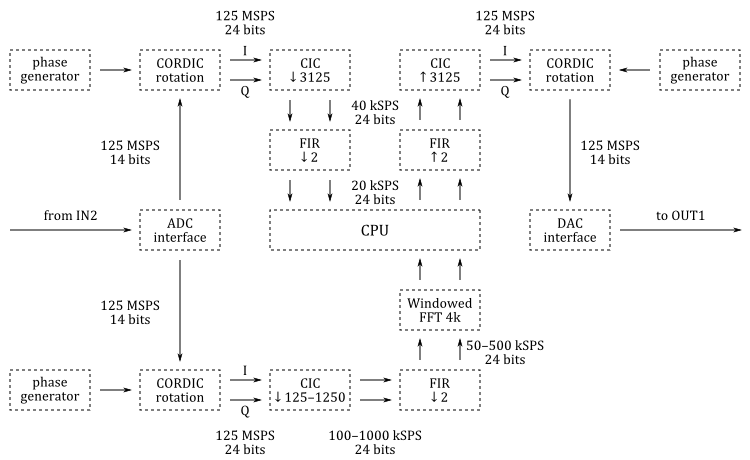
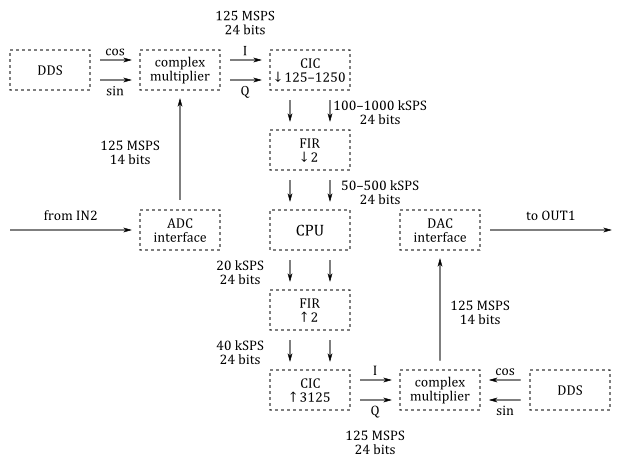
add sdr-transceiver-fft and update sdr-transceiver

diff --git a/sdr-transceiver.md b/sdr-transceiver.md
@@ -35,47 +35,12 @@ The basic blocks of the digital down-converter (DDC) and of the digital up-conve
 
 ![SDR transceiver]({{ "/img/sdr-transceiver.png" | prepend: site.baseurl }})
 
-The [projects/sdr_transceiver](https://github.com/pavel-demin/red-pitaya-notes/tree/develop/projects/sdr_transceiver) directory contains four Tcl files: [block_design.tcl](https://github.com/pavel-demin/red-pitaya-notes/blob/develop/projects/sdr_transceiver/block_design.tcl), [rx_0.tcl](https://github.com/pavel-demin/red-pitaya-notes/blob/develop/projects/sdr_transceiver/rx_0.tcl), [sp_0.tcl](https://github.com/pavel-demin/red-pitaya-notes/blob/develop/projects/sdr_transceiver/sp_0.tcl), [tx_0.tcl](https://github.com/pavel-demin/red-pitaya-notes/blob/develop/projects/sdr_transceiver/tx_0.tcl). The code in these files instantiates, configures and interconnects all the needed IP cores.
+The [projects/sdr_transceiver](https://github.com/pavel-demin/red-pitaya-notes/tree/develop/projects/sdr_transceiver) directory contains three Tcl files: [block_design.tcl](https://github.com/pavel-demin/red-pitaya-notes/blob/develop/projects/sdr_transceiver/block_design.tcl), [rx_0.tcl](https://github.com/pavel-demin/red-pitaya-notes/blob/develop/projects/sdr_transceiver/rx_0.tcl), [tx_0.tcl](https://github.com/pavel-demin/red-pitaya-notes/blob/develop/projects/sdr_transceiver/tx_0.tcl). The code in these files instantiates, configures and interconnects all the needed IP cores.
 
 Software
 -----
 
-A software called [MiniTRX](https://github.com/pavel-demin/MiniTRX) is currently being developed. This software consists of two components:
-
- - server that runs on the Red Pitaya board and processes all the I/Q data
- - client that runs on a computer, receives the audio and spectrum data from the server and sends the audio data to the server for transmission
-
-The server relies on the following libraries:
-
- - [FFTW-ARM](http://www.vesperix.com/arm/fftw-arm/)
- - [WDSP](http://openhpsdr.org/videos.php)
- - [libsamplerate](http://www.mega-nerd.com/SRC/)
- - [Qt](http://www.qt.io/)
-
-The client is mainly based on the [Qt](http://www.qt.io/) library.
-
-The [WebSocket](http://doc.qt.io/qt-5/qtwebsockets-index.html) protocol is used for the communication between the server and the client.
-
-The client GUI is written in the [QML](http://doc.qt.io/qt-5/qtqml-index.html) language.
-
-<!---
-Getting started
------
-
- - Requirements:
-   - Computer running MS Windows.
-   - Wired or wireless Ethernet connection between the computer and the Red Pitaya board.
- - Connect an RX antenna to the IN2 connector on the Red Pitaya board.
- - Connect an TX antenna to the OUT1 connector on the Red Pitaya board.
- - Download [FPGA configuration file](https://googledrive.com/host/0B-t5klOOymMNfmJ0bFQzTVNXQ3RtWm5SQ2NGTE1hRUlTd3V2emdSNzN6d0pYamNILW83Wmc/SDR/sdr_transceiver.bin), [sdr-receiver](https://googledrive.com/host/0B-t5klOOymMNfmJ0bFQzTVNXQ3RtWm5SQ2NGTE1hRUlTd3V2emdSNzN6d0pYamNILW83Wmc/SDR/sdr-receiver) and [sdr-transmitter](https://googledrive.com/host/0B-t5klOOymMNfmJ0bFQzTVNXQ3RtWm5SQ2NGTE1hRUlTd3V2emdSNzN6d0pYamNILW83Wmc/SDR/sdr-transmitter).
- - Copy the downloaded files (`sdr_transceiver.bin`, `sdr-receiver` and `sdr-transmitter`) to the original Red Pitaya SD card.
- - Edit `etc/init.d/rcS` on the SD card to add the commands that configure FPGA and start the programs:
-{% highlight bash %}
-cat /opt/sdr_transceiver.bin > /dev/xdevcfg
-/opt/MiniTRX-server &
-{% endhighlight %}
- - Insert the SD card in Red Pitaya and connect the power.
--->
+An interface with GNU Radio is currently being developed.
 
 Building from source
 -----

diff --git a/sdr-transceiver-fft.md b/sdr-transceiver-fft.md
@@ -1,0 +1,57 @@
+---
+layout: page
+title: SDR transceiver with FFT
+permalink: /sdr-transceiver-fft/
+---
+
+This is a work in progress...
+
+![SDR transceiver with FFT]({{ "/img/sdr-transceiver-fft.png" | prepend: site.baseurl }})
+
+The [projects/sdr_transceiver_fft](https://github.com/pavel-demin/red-pitaya-notes/tree/develop/projects/sdr_transceiver_fft) directory contains four Tcl files: [block_design.tcl](https://github.com/pavel-demin/red-pitaya-notes/blob/develop/projects/sdr_transceiver_fft/block_design.tcl), [rx_0.tcl](https://github.com/pavel-demin/red-pitaya-notes/blob/develop/projects/sdr_transceiver_fft/rx_0.tcl), [sp_0.tcl](https://github.com/pavel-demin/red-pitaya-notes/blob/develop/projects/sdr_transceiver_fft/sp_0.tcl), [tx_0.tcl](https://github.com/pavel-demin/red-pitaya-notes/blob/develop/projects/sdr_transceiver_fft/tx_0.tcl). The code in these files instantiates, configures and interconnects all the needed IP cores.
+
+Software
+-----
+
+A software called [MiniTRX](https://github.com/pavel-demin/MiniTRX) is currently being developed. This software consists of two components:
+
+ - server that runs on the Red Pitaya board and processes all the I/Q data
+ - client that runs on a computer, receives the audio and spectrum data from the server and sends the audio data to the server for transmission
+
+The server relies on the following libraries:
+
+ - [FFTW-ARM](http://www.vesperix.com/arm/fftw-arm/)
+ - [WDSP](http://openhpsdr.org/videos.php)
+ - [libsamplerate](http://www.mega-nerd.com/SRC/)
+ - [Qt](http://www.qt.io/)
+
+The client is mainly based on the [Qt](http://www.qt.io/) library.
+
+The [WebSocket](http://doc.qt.io/qt-5/qtwebsockets-index.html) protocol is used for the communication between the server and the client.
+
+The client GUI is written in the [QML](http://doc.qt.io/qt-5/qtqml-index.html) language.
+
+Building from source
+-----
+
+The installation of the development machine is described at [this link]({{ "/development-machine/" | prepend: site.baseurl }}).
+
+The structure of the source code and of the development chain is described at [this link]({{ "/led-blinker/" | prepend: site.baseurl }}).
+
+Setting up the Vivado environment:
+{% highlight bash %}
+source /opt/Xilinx/Vivado/2015.2/settings64.sh
+source /opt/Xilinx/SDK/2015.2/settings64.sh
+{% endhighlight %}
+
+Cloning the source code repository:
+{% highlight bash %}
+git clone https://github.com/pavel-demin/red-pitaya-notes
+cd red-pitaya-notes
+{% endhighlight %}
+
+Building `sdr_transceiver_fft.bin`:
+{% highlight bash %}
+make NAME=sdr_transceiver_fft tmp/sdr_transceiver_fft.bit
+python scripts/fpga-bit-to-bin.py --flip tmp/sdr_transceiver_fft.bit sdr_transceiver_fft.bin
+{% endhighlight %}

diff --git a/index.md b/index.md
@@ -10,4 +10,5 @@ layout: default
 1. [LED blinker]({{ "/led-blinker/" | prepend: site.baseurl }})
 1. [SDR receiver]({{ "/sdr-receiver/" | prepend: site.baseurl }})
 1. [SDR transceiver]({{ "/sdr-transceiver/" | prepend: site.baseurl }})
+1. [SDR transceiver with FFT]({{ "/sdr-transceiver-fft/" | prepend: site.baseurl }})
 1. [Debian with Red Pitaya ecosystem]({{ "/debian-ecosystem/" | prepend: site.baseurl }})
